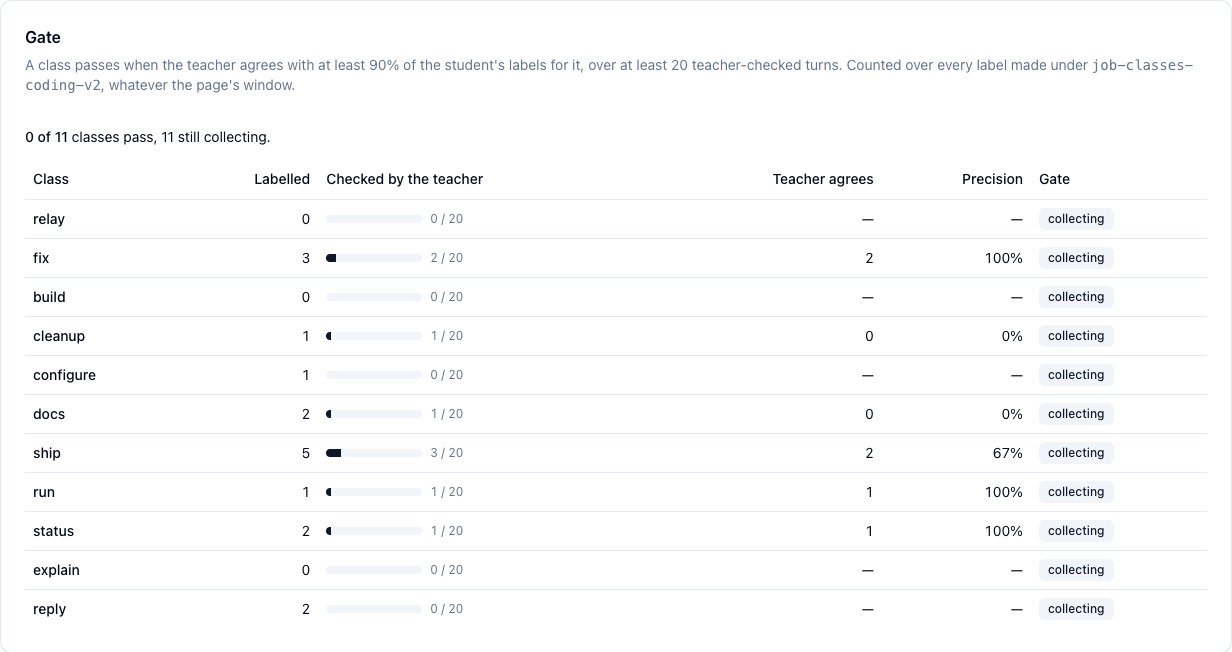
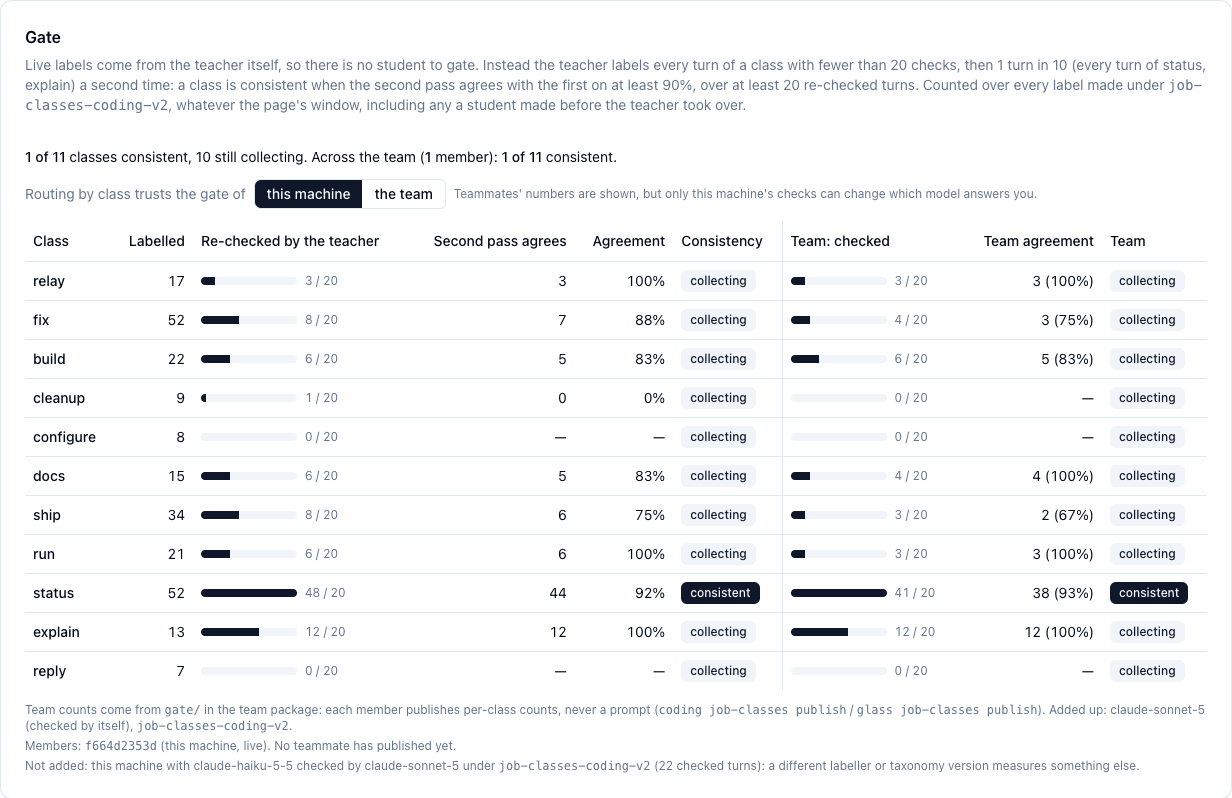
docs(job-classes): current Gate and glass-settings screenshots; glass 0.1.95 (P6 docs, Gate wording)

diff --git a/docs-content/job-classes.md b/docs-content/job-classes.md
@@ -314,7 +314,7 @@ route.
 </div>
 <figure class="overview-figure" markdown="1">
 
-[![Token Usage → Classes → Gate: one row per class with turns labelled, teacher-checked turns against the minimum of 20, teacher agreements, precision and a verdict; every class is still collecting.](images/job-classes-gate.png)](images/job-classes-gate.png){: target="_blank" rel="noopener" title="Open full-size screenshot" }
+[![Token Usage → Classes → Gate: the switch for whose gate routing by class trusts (this machine, the default, or the team); one row per class with turns labelled, re-checked turns against the minimum of 20, second-pass agreements and a consistency verdict for this machine, then the same for the team; below, the members who published and a pool that is not added.](images/job-classes-gate.png)](images/job-classes-gate.png){: target="_blank" rel="noopener" title="Open full-size screenshot" }
 
 <figcaption>The gate panel, a day after version 2 went live: every class still collecting. Today it also shows the team's pooled columns (see *Pool the gate*).</figcaption>
 </figure>
@@ -542,7 +542,7 @@ The Classes tab, the gate and the coverage map are the same as here. Routing by 
 </div>
 <figure class="overview-figure" markdown="1">
 
-[![glass's Classes tab: the labelling switch, the user's Copilot account, the student and teacher models, the teacher's share of turns, a button to try the account, and a field to join a team's taxonomy by git URL.](images/glass-job-classes-settings.png)](images/glass-job-classes-settings.png){: target="_blank" rel="noopener" title="Open full-size screenshot" }
+[![glass's Classes tab: the labelling switch, the user's Copilot account, the model that labels (the teacher), the second-pass share, how many turns to label after the gate, a button to try the account, and a field to join a team's taxonomy by git URL.](images/glass-job-classes-settings.png)](images/glass-job-classes-settings.png){: target="_blank" rel="noopener" title="Open full-size screenshot" }
 
 <figcaption>glass → Token Usage → Classes: off until the user switches it on.</figcaption>
 </figure>
